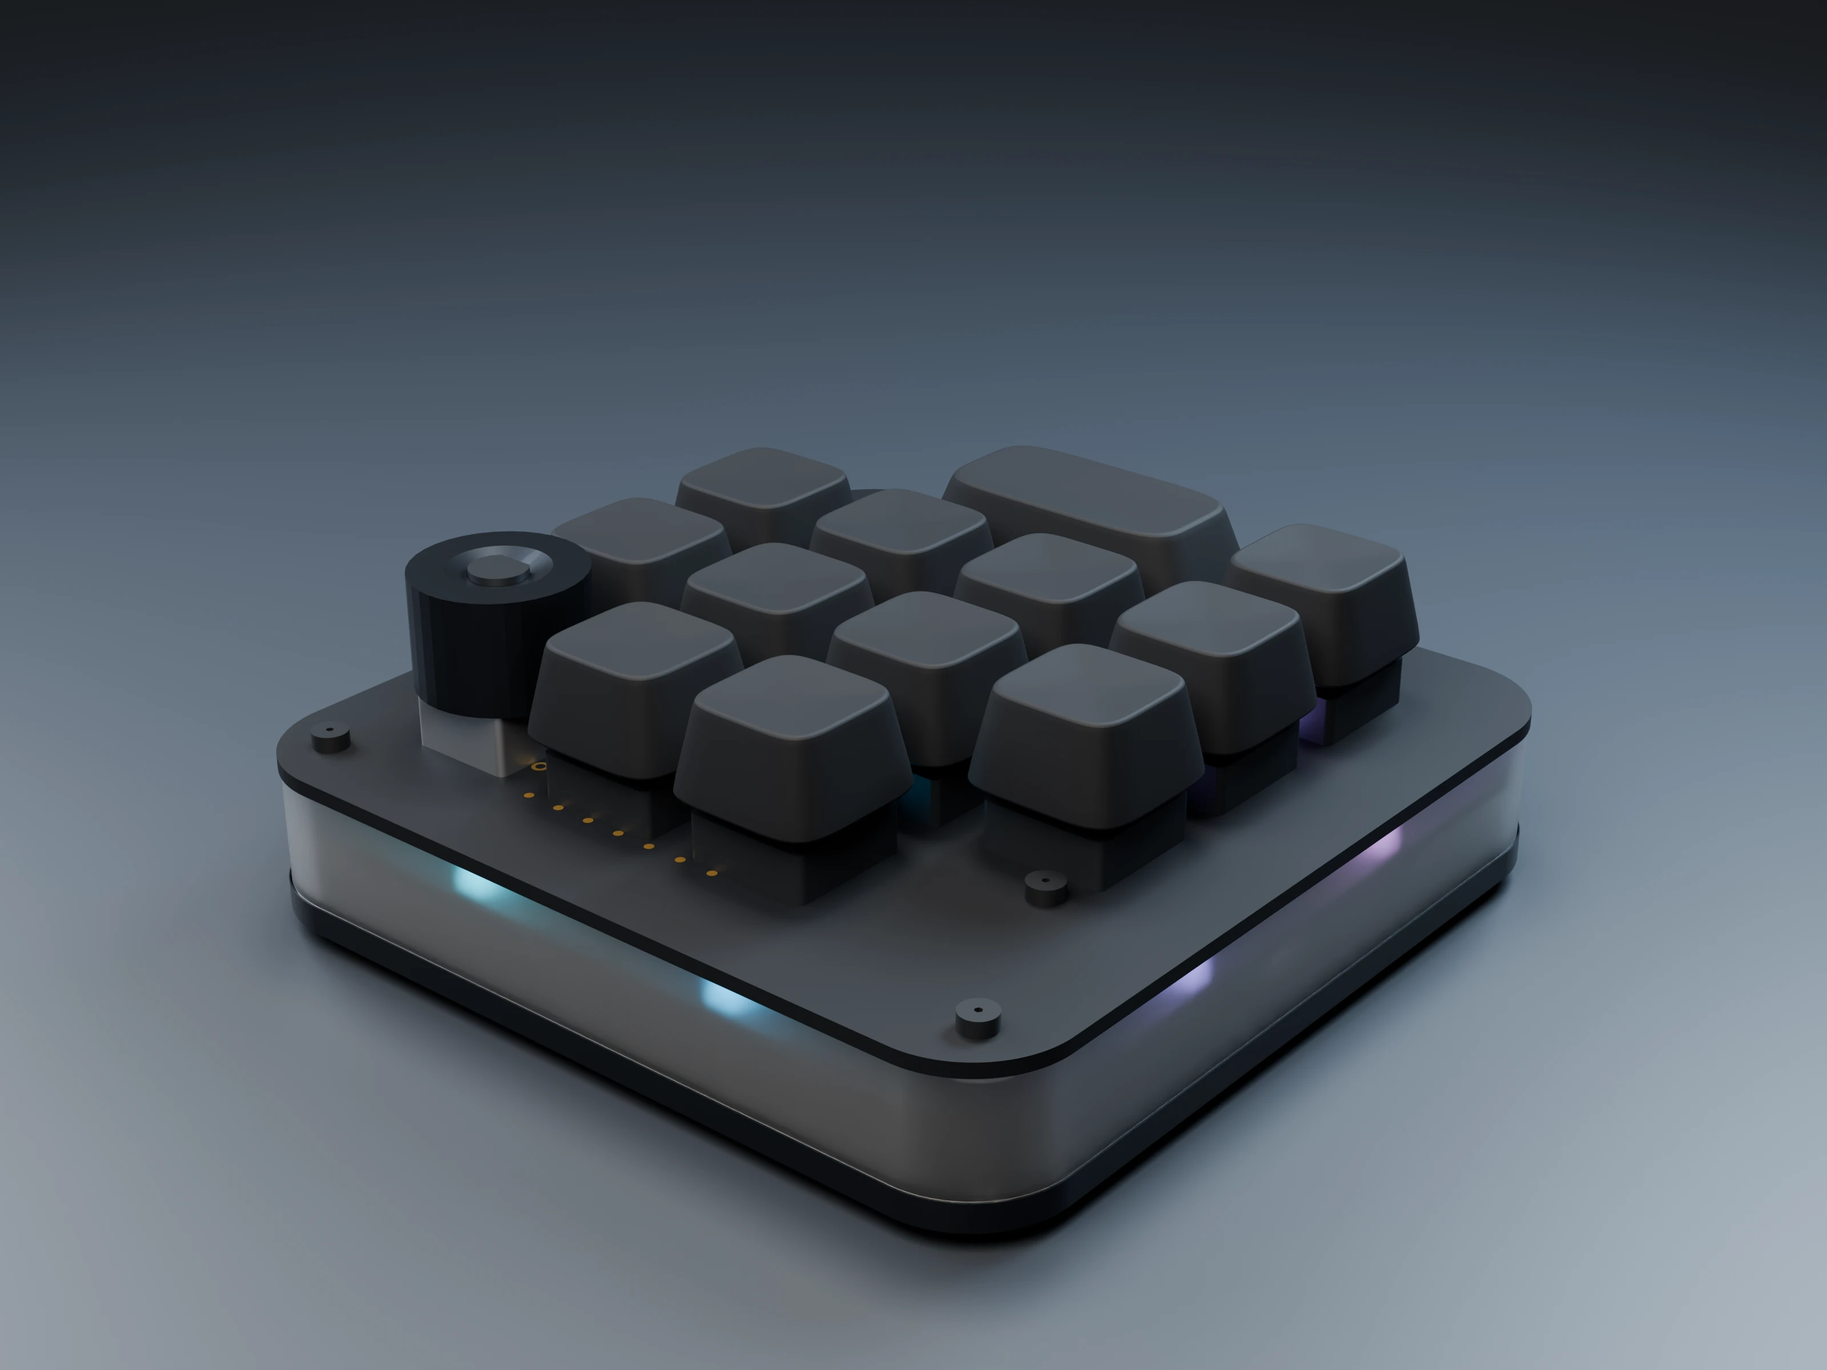
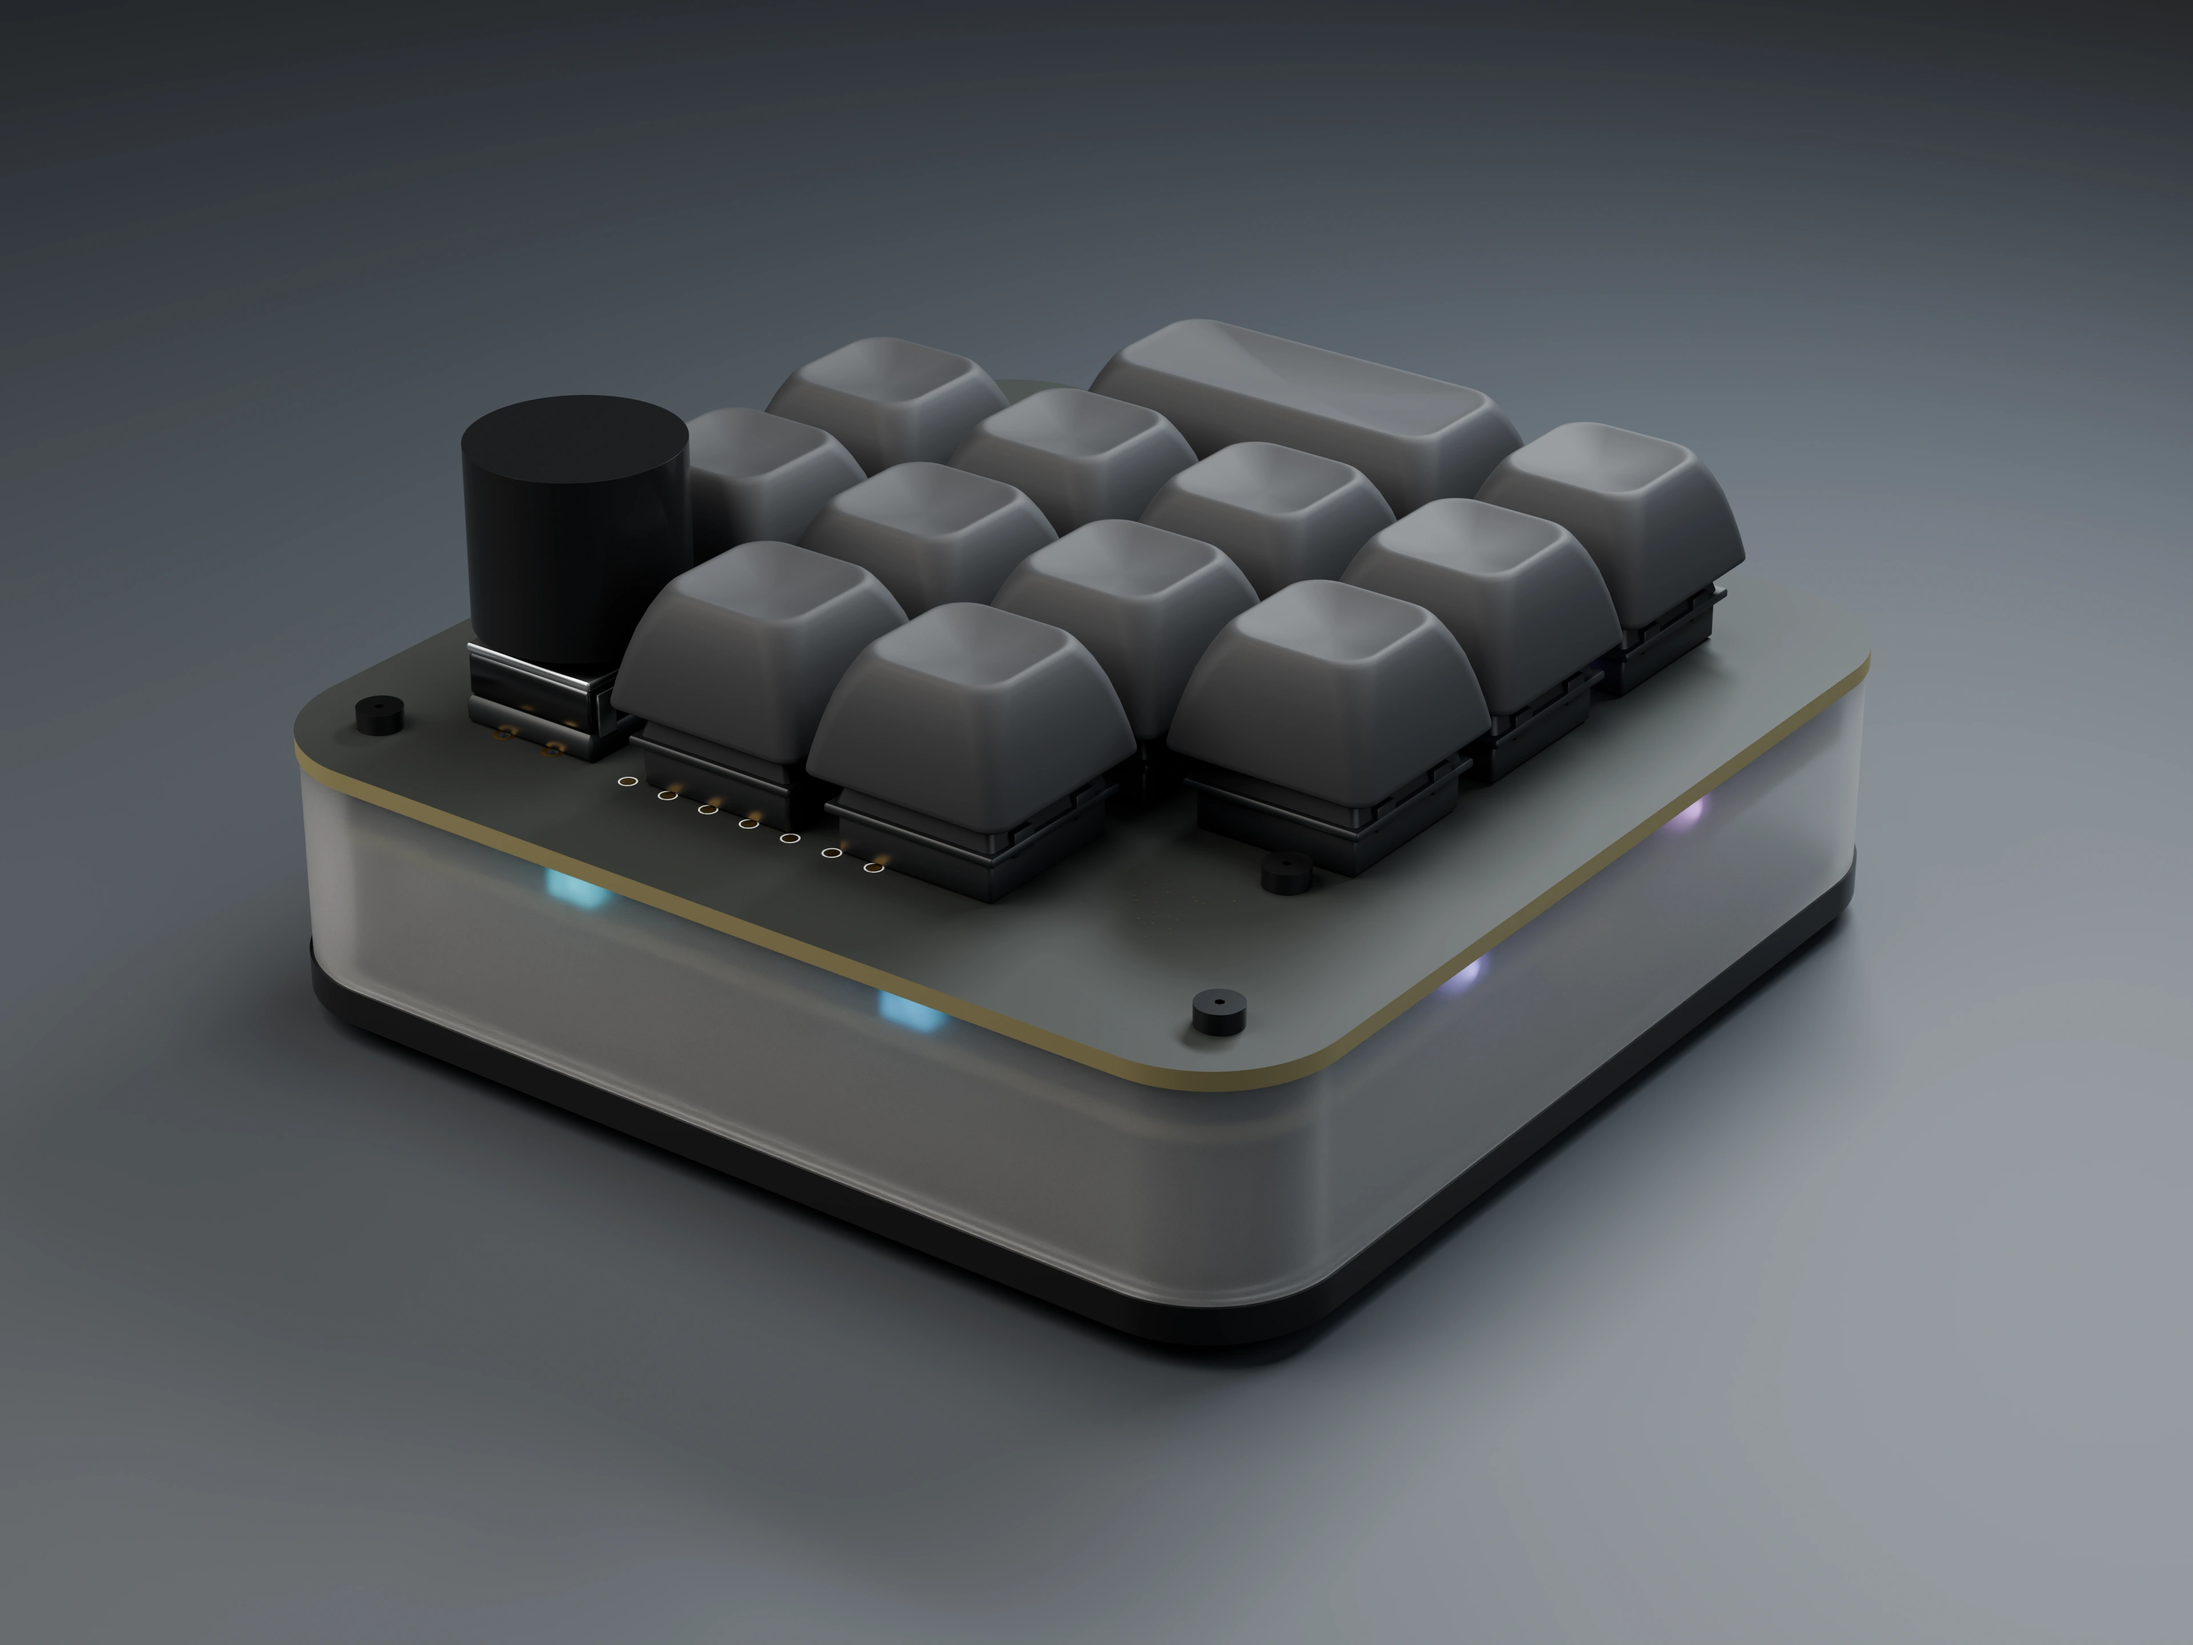
Refresh Open Micro website with new marketing renders

diff --git a/src/content/openMicro.ts b/src/content/openMicro.ts
@@ -16,51 +16,51 @@ import transparentFull from '../assets/product/marketing/open-micro-transparent.
 export const marketingRenders = {
   desk: {
     src: desk,
-    srcSet: `${desk} 1600w, ${deskFull} 3200w`,
-    width: 3200,
-    height: 1800,
-    alt: 'Concept visualization of Open Micro beside a laptop and coffee on a light desk',
+    srcSet: `${desk} 1600w, ${deskFull} 3840w`,
+    width: 3840,
+    height: 2160,
+    alt: 'Concept visualization of Open Micro connected by USB-C on a gray mat on a wooden desk',
   },
   studio: {
     src: studio,
-    srcSet: `${studio} 1600w, ${studioFull} 3200w`,
-    width: 3200,
-    height: 2400,
+    srcSet: `${studio} 1600w, ${studioFull} 3840w`,
+    width: 3840,
+    height: 2880,
     alt: 'Studio concept visualization of Open Micro with dark keycaps, exposed control PCB, and frosted wall',
   },
   exploded: {
     src: exploded,
-    srcSet: `${exploded} 1200w, ${explodedFull} 2400w`,
-    width: 2400,
-    height: 3200,
-    alt: 'Exploded concept visualization separating the keycaps, switches, top PCB, frosted wall, sister PCB, aluminum bottom, and feet',
+    srcSet: `${exploded} 1200w, ${explodedFull} 2880w`,
+    width: 2880,
+    height: 3840,
+    alt: 'Exploded concept visualization separating the controls, two PCBs, frosted wall, battery, aluminum base, and feet',
   },
   top: {
     src: top,
-    srcSet: `${top} 1600w, ${topFull} 2400w`,
-    width: 2400,
-    height: 2400,
+    srcSet: `${top} 1600w, ${topFull} 2880w`,
+    width: 2880,
+    height: 2880,
     alt: 'Overhead concept visualization of twelve MX keys, a push encoder, and an exposed touch control on the matte-black PCB',
   },
   detail: {
     src: detail,
-    srcSet: `${detail} 1600w, ${detailFull} 3200w`,
-    width: 3200,
-    height: 2400,
-    alt: 'Material close-up of the encoder, textured dark keycaps, matte solder mask, and gold-colored ENIG contacts',
+    srcSet: `${detail} 1600w, ${detailFull} 3840w`,
+    width: 3840,
+    height: 2880,
+    alt: 'Material close-up of the anodized encoder knob, dished dark keycaps, PCB solder mask, and solder joints',
   },
   night: {
     src: night,
-    srcSet: `${night} 1600w, ${nightFull} 3200w`,
-    width: 3200,
-    height: 1800,
+    srcSet: `${night} 1600w, ${nightFull} 3840w`,
+    width: 3840,
+    height: 2160,
     alt: 'Night concept visualization with cyan and violet light diffused through the frosted polycarbonate wall',
   },
   transparent: {
     src: transparent,
-    srcSet: `${transparent} 1600w, ${transparentFull} 2400w`,
-    width: 2400,
-    height: 2400,
+    srcSet: `${transparent} 1600w, ${transparentFull} 2880w`,
+    width: 2880,
+    height: 2880,
     alt: 'Three-quarter concept visualization of Open Micro with twelve dark keys, a push encoder, and a softly illuminated frosted wall',
   },
 } as const

diff --git a/src/pages/CompanyHomePage.tsx b/src/pages/CompanyHomePage.tsx
@@ -75,7 +75,7 @@ export function CompanyHomePage() {
                   src={openMicroHome}
                   srcSet={`${openMicroHome} 960w, ${openMicroHomeLarge} 1600w`}
                   width="1600"
-                  height="1131"
+                  height="1190"
                   alt="Art-directed concept visualization of Open Micro with twelve dark keys, a push encoder, and a softly illuminated frosted wall"
                   sizes="(max-width: 767px) calc(100vw - 48px), (max-width: 1050px) calc(100vw - 96px), (max-width: 1280px) 65vw, 780px"
                   loading="lazy"

diff --git a/src/components/HeroProduct.module.css b/src/components/HeroProduct.module.css
@@ -94,7 +94,7 @@
 .renderFrame img {
   position: absolute;
   /* Remove empty alpha canvas above the object, not the product itself. */
-  top: -68%;
+  top: -47%;
   left: -10%;
   display: block;
   width: 120%;
